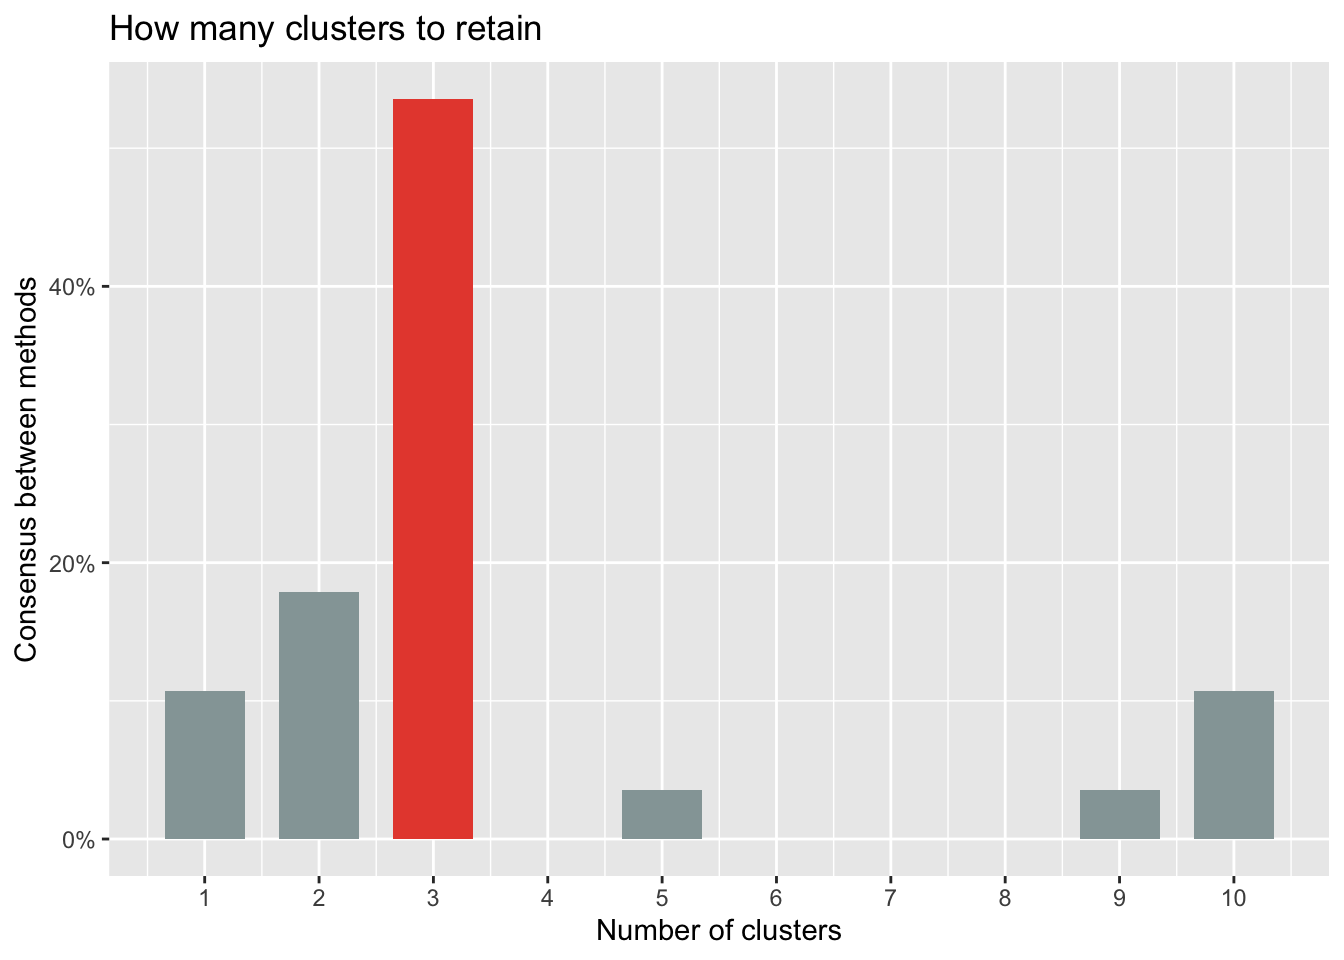
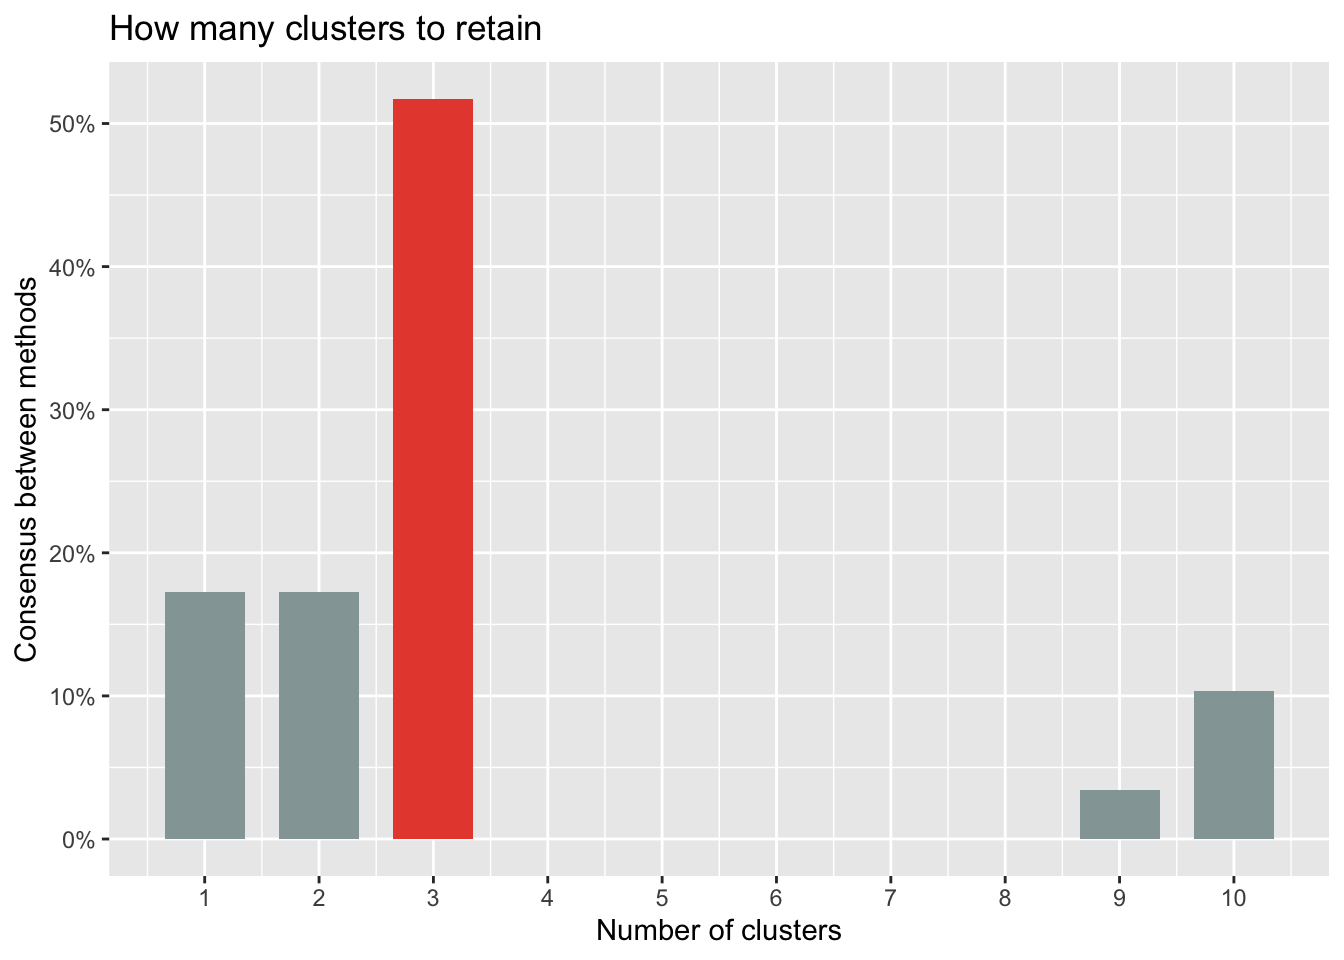
update post

diff --git a/content/blog/clustering-analysis-k-means-and-hierarchical-clustering-by-hand-and-in-r.html b/content/blog/clustering-analysis-k-means-and-hierarchical-clustering-by-hand-and-in-r.html
@@ -17,66 +17,66 @@ output:
 bibliography: bibliography.bib
 ---
 
-<script src="/rmarkdown-libs/header-attrs/header-attrs.js"></script>
 
 <div id="TOC">
 <ul>
-<li><a href="#what-is-clustering-analysis">What is clustering analysis?</a>
+<li><a href="#what-is-clustering-analysis" id="toc-what-is-clustering-analysis">What is clustering analysis?</a>
 <ul>
-<li><a href="#application-1-computing-distances">Application 1: Computing distances</a>
+<li><a href="#application-1-computing-distances" id="toc-application-1-computing-distances">Application 1: Computing distances</a>
 <ul>
-<li><a href="#solution">Solution</a></li>
+<li><a href="#solution" id="toc-solution">Solution</a></li>
 </ul></li>
 </ul></li>
-<li><a href="#k-means-clustering"><em>k</em>-means clustering</a>
+<li><a href="#k-means-clustering" id="toc-k-means-clustering"><em>k</em>-means clustering</a>
 <ul>
-<li><a href="#application-2-k-means-clustering">Application 2: <em>k</em>-means clustering</a>
+<li><a href="#application-2-k-means-clustering" id="toc-application-2-k-means-clustering">Application 2: <em>k</em>-means clustering</a>
 <ul>
-<li><a href="#data">Data</a></li>
-<li><a href="#kmeans-with-2-groups"><code>kmeans()</code> with 2 groups</a></li>
-<li><a href="#quality-of-a-k-means-partition">Quality of a <em>k</em>-means partition</a></li>
-<li><a href="#nstart-for-several-initial-centers-and-better-stability"><code>nstart</code> for several initial centers and better stability</a></li>
-<li><a href="#kmeans-with-3-groups"><code>kmeans()</code> with 3 groups</a></li>
-<li><a href="#optimal-number-of-clusters">Optimal number of clusters</a>
+<li><a href="#data" id="toc-data">Data</a></li>
+<li><a href="#kmeans-with-2-groups" id="toc-kmeans-with-2-groups"><code>kmeans()</code> with 2 groups</a></li>
+<li><a href="#quality-of-a-k-means-partition" id="toc-quality-of-a-k-means-partition">Quality of a <em>k</em>-means partition</a></li>
+<li><a href="#nstart-for-several-initial-centers-and-better-stability" id="toc-nstart-for-several-initial-centers-and-better-stability"><code>nstart</code> for several initial centers and better stability</a></li>
+<li><a href="#kmeans-with-3-groups" id="toc-kmeans-with-3-groups"><code>kmeans()</code> with 3 groups</a></li>
+<li><a href="#optimal-number-of-clusters" id="toc-optimal-number-of-clusters">Optimal number of clusters</a>
 <ul>
-<li><a href="#elbow-method">Elbow method</a></li>
-<li><a href="#silhouette-method">Silhouette method</a></li>
-<li><a href="#gap-statistic-method">Gap statistic method</a></li>
-<li><a href="#consensus-based-algorithm">Consensus-based algorithm</a></li>
+<li><a href="#elbow-method" id="toc-elbow-method">Elbow method</a></li>
+<li><a href="#silhouette-method" id="toc-silhouette-method">Silhouette method</a></li>
+<li><a href="#gap-statistic-method" id="toc-gap-statistic-method">Gap statistic method</a></li>
+<li><a href="#consensus-based-algorithm" id="toc-consensus-based-algorithm">Consensus-based algorithm</a></li>
 </ul></li>
-<li><a href="#visualizations">Visualizations</a></li>
-<li><a href="#manual-application-and-verification-in-r">Manual application and verification in R</a>
+<li><a href="#visualizations" id="toc-visualizations">Visualizations</a></li>
+<li><a href="#manual-application-and-verification-in-r" id="toc-manual-application-and-verification-in-r">Manual application and verification in R</a>
 <ul>
-<li><a href="#solution-by-hand">Solution by hand</a></li>
-<li><a href="#solution-in-r">Solution in R</a></li>
-</ul></li>
-</ul></li>
-</ul></li>
-<li><a href="#hierarchical-clustering">Hierarchical clustering</a>
-<ul>
-<li><a href="#application-3-hierarchical-clustering">Application 3: hierarchical clustering</a>
-<ul>
-<li><a href="#data-1">Data</a></li>
-<li><a href="#solution-by-hand-1">Solution by hand</a>
-<ul>
-<li><a href="#single-linkage">Single linkage</a></li>
-<li><a href="#complete-linkage">Complete linkage</a></li>
-<li><a href="#average-linkage">Average linkage</a></li>
-</ul></li>
-<li><a href="#solution-in-r-1">Solution in R</a>
-<ul>
-<li><a href="#single-linkage-1">Single linkage</a>
-<ul>
-<li><a href="#optimal-number-of-clusters-1">Optimal number of clusters</a></li>
-</ul></li>
-<li><a href="#complete-linkage-1">Complete linkage</a></li>
-<li><a href="#average-linkage-1">Average linkage</a></li>
+<li><a href="#solution-by-hand" id="toc-solution-by-hand">Solution by hand</a></li>
+<li><a href="#solution-in-r" id="toc-solution-in-r">Solution in R</a></li>
 </ul></li>
 </ul></li>
 </ul></li>
-<li><a href="#k-means-versus-hierarchical-clustering"><em>k</em>-means versus hierarchical clustering</a></li>
-<li><a href="#whats-next">What’s next?</a></li>
-<li><a href="#references">References</a></li>
+<li><a href="#hierarchical-clustering" id="toc-hierarchical-clustering">Hierarchical clustering</a>
+<ul>
+<li><a href="#application-3-hierarchical-clustering" id="toc-application-3-hierarchical-clustering">Application 3: hierarchical clustering</a>
+<ul>
+<li><a href="#data-1" id="toc-data-1">Data</a></li>
+<li><a href="#solution-by-hand-1" id="toc-solution-by-hand-1">Solution by hand</a>
+<ul>
+<li><a href="#single-linkage" id="toc-single-linkage">Single linkage</a></li>
+<li><a href="#complete-linkage" id="toc-complete-linkage">Complete linkage</a></li>
+<li><a href="#average-linkage" id="toc-average-linkage">Average linkage</a></li>
+</ul></li>
+<li><a href="#solution-in-r-1" id="toc-solution-in-r-1">Solution in R</a>
+<ul>
+<li><a href="#single-linkage-1" id="toc-single-linkage-1">Single linkage</a>
+<ul>
+<li><a href="#optimal-number-of-clusters-1" id="toc-optimal-number-of-clusters-1">Optimal number of clusters</a></li>
+</ul></li>
+<li><a href="#complete-linkage-1" id="toc-complete-linkage-1">Complete linkage</a></li>
+<li><a href="#average-linkage-1" id="toc-average-linkage-1">Average linkage</a></li>
+</ul></li>
+</ul></li>
+</ul></li>
+<li><a href="#k-means-versus-hierarchical-clustering" id="toc-k-means-versus-hierarchical-clustering"><em>k</em>-means versus hierarchical clustering</a></li>
+<li><a href="#whats-next" id="toc-whats-next">What’s next?</a></li>
+<li><a href="#conclusion" id="toc-conclusion">Conclusion</a></li>
+<li><a href="#references" id="toc-references">References</a></li>
 </ul>
 </div>
 
@@ -297,8 +297,9 @@ BSS3 / TSS3 * 100</code></pre>
 <pre class="r"><code>library(parameters)
 
 res_kmeans &lt;- cluster_analysis(Eurojobs,
-                 n = 3,
-                 method = &quot;kmeans&quot;)
+  n = 3,
+  method = &quot;kmeans&quot;
+)
 
 predict(res_kmeans) # get clusters</code></pre>
 <pre><code>##  [1] 2 2 2 2 2 2 2 2 2 2 2 3 2 2 2 2 2 1 3 3 3 3 3 3 3 1</code></pre>
@@ -365,16 +366,17 @@ fviz_nbclust(Eurojobs, kmeans,
 <pre class="r"><code>library(parameters)
 
 n_clust &lt;- n_clusters(Eurojobs,
-                      package = c(&quot;easystats&quot;, &quot;NbClust&quot;, &quot;mclust&quot;),
-                      standardize = FALSE)
+  package = c(&quot;easystats&quot;, &quot;NbClust&quot;, &quot;mclust&quot;),
+  standardize = FALSE
+)
 n_clust</code></pre>
 <pre><code>## # Method Agreement Procedure:
 ## 
-## The choice of 3 clusters is supported by 15 (53.57%) methods out of 28 (kl, Ch, Hartigan, CCC, Scott, Marriot, trcovw, Tracew, Rubin, Beale, Ratkowsky, Ball, PtBiserial, Dunn, SDindex).</code></pre>
+## The choice of 3 clusters is supported by 15 (51.72%) methods out of 29 (kl, Ch, Hartigan, CCC, Scott, Marriot, trcovw, Tracew, Rubin, Beale, Ratkowsky, Ball, PtBiserial, Dunn, SDindex).</code></pre>
 <p>The optimal number of clusters to retain can also be visualized:</p>
 <pre class="r"><code>plot(n_clust)</code></pre>
 <p><img src="/blog/clustering-analysis-k-means-and-hierarchical-clustering-by-hand-and-in-r_files/figure-html/unnamed-chunk-19-1.png" width="100%" style="display: block; margin: auto;" /></p>
-<p>Based on all indices, most methods suggest to retain 3 clusters, followed by a 2-clusters solution.</p>
+<p>Based on all indices, most methods suggest to retain 3 clusters.</p>
 </div>
 </div>
 <div id="visualizations" class="section level3">
@@ -992,14 +994,14 @@ mean
 <p>And the total WSS is</p>
 <p><span class="math display">\[\begin{align}
 WSS &amp;= WSS[1] + WSS[2] \\
- &amp;= 18.67 + 16.67 \\
- &amp;= 35.34
+&amp;= 18.67 + 16.67 \\
+&amp;= 35.34
 \end{align}\]</span></p>
 <p>To find the BSS:</p>
 <p><span class="math display">\[\begin{align}
 BSS &amp;= TSS - WSS \\
- &amp;= 88.67 - 35.34 \\
- &amp;= 53.33
+&amp;= 88.67 - 35.34 \\
+&amp;= 53.33
 \end{align}\]</span></p>
 <p>Finally, the quality of the partition is:</p>
 <p><span class="math display">\[Quality = \frac{BSS}{TSS} = \frac{53.33}{88.67} = 0.6014\]</span></p>
@@ -1027,7 +1029,7 @@ res.k &lt;- kmeans(X,
   algorithm = &quot;Lloyd&quot;
 )</code></pre>
 <p>Unlike in the previous application with the dataset <code>Eurojobs.csv</code> where the initial centers are randomly chosen by R, in this second application we want to specify which points are going to be the two initial centers. For this, we need to set <code>centers = X[c(5,6), ]</code> to indicate that that there are 2 centers, and that they are going to be the points 5 and 6 (see a reminder on <a href="/blog/data-manipulation-in-r/">how to subset a dataframe</a> if needed).</p>
-<p>The reason for adding the argument <code>algorithm = "Lloyd"</code> can be found in the usage of the R function <code>kmeans()</code>. In fact, there are several variants of the <em>k</em>-means algorithm. The default choice is the <span class="citation"><a href="#ref-jaaw28m" role="doc-biblioref">Hartigan and Wong</a> (<a href="#ref-jaaw28m" role="doc-biblioref">1979</a>)</span> version, which is more sophisticated than the basic version detailed in the solution by hand. By using the original version of <span class="citation"><a href="#ref-lloyd1982least" role="doc-biblioref">Lloyd</a> (<a href="#ref-lloyd1982least" role="doc-biblioref">1982</a>)</span>, we find the same solution in R and by hand. For more information, you can consult the documentation of the <code>kmeans()</code> function (via <code>?kmeans</code> or <code>help(kmeans)</code>) and read the articles mentioned.</p>
+<p>The reason for adding the argument <code>algorithm = "Lloyd"</code> can be found in the usage of the R function <code>kmeans()</code>. In fact, there are several variants of the <em>k</em>-means algorithm. The default choice is the <span class="citation">Hartigan and Wong (<a href="#ref-jaaw28m" role="doc-biblioref">1979</a>)</span> version, which is more sophisticated than the basic version detailed in the solution by hand. By using the original version of <span class="citation">Lloyd (<a href="#ref-lloyd1982least" role="doc-biblioref">1982</a>)</span>, we find the same solution in R and by hand. For more information, you can consult the documentation of the <code>kmeans()</code> function (via <code>?kmeans</code> or <code>help(kmeans)</code>) and read the articles mentioned.</p>
 <p>The solution in R is then found by extracting</p>
 <ul>
 <li>the partition with <code>$cluster</code>:</li>
@@ -1870,7 +1872,8 @@ rect.hclust(hclust,
 <p>However, these methods are beyond the scope of this article and the method presented with the dendrogram is generally sufficient. See more detailed information in this <a href="http://www.sthda.com/english/wiki/wiki.php?id_contents=7952" target="_blank">article</a>.</p>
 <p>Note that hierarchical clustering is a bit different than <em>k</em>-means in the sense that is does not return a vector containing the information about which cluster the observations belong to. Instead, it creates a hierarchical structure (a dendrogram), a tree from which we can cut branches to get a given number of clusters. This information can be found via the <code>cutree()</code> function:</p>
 <pre class="r"><code>clust &lt;- cutree(hclust,
-       k = 2)
+  k = 2
+)
 clust</code></pre>
 <pre><code>## [1] 1 2 2 2 1</code></pre>
 <p>We see that:</p>
@@ -1943,7 +1946,11 @@ rect.hclust(hclust,
 <p>We have seen that clustering is a nice tool to identify homogeneous observations with respect to the measured variables. Following your clustering, you may want to get a sense of the characteristics of each cluster. This can be done through some <a href="/blog/descriptive-statistics-in-r/">descriptive statistics</a> for each cluster.</p>
 <p>For example, for <a href="/blog/variable-types-and-examples/#qualitative">categorical</a> variables, you could start to compute, for each cluster, the proportion of responses for each level of your categorical variables. You could also visualize this information via a <a href="/blog/descriptive-statistics-in-r/#barplot">barplot</a>. For <a href="/blog/variable-types-and-examples/#quantitative">quantitative</a> variables, the mean or median response for each variable in each cluster is usually a good starting point.</p>
 <p>If your clustering performs well, you will see that within each cluster observations share a common pattern of responses across the variables. This is both a nice way to see what makes each cluster unique, and what makes clusters different.</p>
-<p>Thanks for reading. I hope this article helped you understand the different clustering methods and how to compute them by hand and in R.</p>
+</div>
+<div id="conclusion" class="section level1">
+<h1>Conclusion</h1>
+<p>Thanks for reading.</p>
+<p>I hope this article helped you understand the different clustering methods and how to compute them by hand and in R.</p>
 <p>As always, if you have a question or a suggestion related to the topic covered in this article, please add it as a comment so other readers can benefit from the discussion.</p>
 </div>
 <div id="references" class="section level1 unnumbered">
